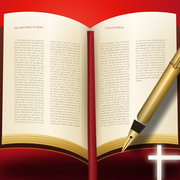
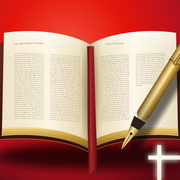
Publish 1.2.25 (2026-10-12 12:21)

diff --git a/index.html b/index.html
@@ -12,15 +12,15 @@
 <meta property="og:title" content="Never Get Bored — Nii Okai's Journal Through Scripture">
 <meta property="og:description" content="A verse-by-verse journal through Scripture by Nii Okai. Over 4,000 personal notes across all 66 books, with the King James text, reading plans and audio.">
 <meta property="og:url" content="https://bible.getwordwisdom.com/">
-<meta property="og:image" content="https://bible.getwordwisdom.com/icon-1024.png?v=20">
+<meta property="og:image" content="https://bible.getwordwisdom.com/icon-1024.png?v=21">
 <meta name="twitter:card" content="summary_large_image">
 <meta name="twitter:title" content="Never Get Bored — Nii Okai's Journal Through Scripture">
 <meta name="twitter:description" content="A verse-by-verse journal through Scripture by Nii Okai. Over 4,000 personal notes across all 66 books.">
-<meta name="twitter:image" content="https://bible.getwordwisdom.com/icon-1024.png?v=20">
+<meta name="twitter:image" content="https://bible.getwordwisdom.com/icon-1024.png?v=21">
 <meta name="theme-color" content="#000000">
-<link rel="apple-touch-icon" href="apple-touch-icon.png?v=20">
-<link rel="icon" type="image/png" sizes="32x32" href="favicon-32.png?v=20">
-<link rel="icon" type="image/png" sizes="192x192" href="icon-192.png?v=20">
+<link rel="apple-touch-icon" href="apple-touch-icon.png?v=21">
+<link rel="icon" type="image/png" sizes="32x32" href="favicon-32.png?v=21">
+<link rel="icon" type="image/png" sizes="192x192" href="icon-192.png?v=21">
 <meta name="apple-mobile-web-app-capable" content="yes">
 <meta name="apple-mobile-web-app-status-bar-style" content="default">
 <meta name="apple-mobile-web-app-title" content="Bible Journal N.O">
@@ -341,7 +341,7 @@ html.hide-notes .cmprow.revealed + .notewrap .note{display:block}
 .copypop-right{left:auto;right:0}
 .inline-ed{width:100%;min-height:70px;font-family:var(--sans);font-size:15px;line-height:1.55;color:var(--ink);
   background:var(--panel);border:2px solid var(--accent);border-radius:10px;padding:10px 12px;resize:vertical;outline:none}
-.inline-bar{display:flex;align-items:center;gap:8px;margin-top:8px}
+.inline-bar{display:flex;flex-wrap:wrap;align-items:center;gap:8px;margin-top:8px}
 .inline-bar .btn{padding:5px 14px;font-size:13px}
 .inline-hint{font-family:var(--sans);font-size:11px;color:var(--soft)}
 /* reference commentary (Matthew Henry) — visually distinct from Nii's journal */
@@ -982,7 +982,7 @@ body[data-view]:not([data-view="read"]):not([data-view="search"]) .rc{display:no
 <body>
 <!-- Opening screen: the red logo on black while the app gets ready (11 Oct 2026) -->
 <div id="boot" aria-hidden="true" style="position:fixed;inset:0;z-index:99999;background:#000000;display:flex;flex-direction:column;align-items:center;justify-content:center;gap:22px;transition:opacity .35s ease">
-  <img src="icon-512.png?v=20" alt="" width="220" height="220" style="width:min(46vw,240px);height:auto;border-radius:22%;box-shadow:0 0 70px rgba(225,6,0,.38)">
+  <img src="icon-512.png?v=21" alt="" width="220" height="220" style="width:min(46vw,240px);height:auto;border-radius:22%;box-shadow:0 0 70px rgba(225,6,0,.38)">
   <div style="font-family:Georgia,'Times New Roman',serif;color:#fff;text-align:center;line-height:1.35">
     <div style="font-size:clamp(20px,5vw,28px);letter-spacing:.3px">Nii Okai&#8217;s Bible Journal</div>
     <div style="font-size:clamp(12px,3.2vw,14px);opacity:.85;letter-spacing:2px;text-transform:uppercase;margin-top:6px">Never Get Bored</div>
@@ -1105,7 +1105,7 @@ body[data-view]:not([data-view="read"]):not([data-view="search"]) .rc{display:no
       <div class="vtext" id="edVerse"></div>
     </div>
     <div class="mb">
-      <textarea id="edText" placeholder="Share your thoughts on this verse…" spellcheck="true" autocapitalize="sentences" autocorrect="on" oninput="noteAutocorrect(event)"></textarea>
+      <textarea id="edText" placeholder="Share your thoughts on this verse…" spellcheck="true" autocapitalize="sentences" autocorrect="on" oninput="_edInput(event)"></textarea>
       <div class="ed-colours" id="edColours" title="Colour this note — it also highlights the verse. Stays on this device only.">
         <span class="lbl">Colour</span>
         <button class="sw sw-none" data-c="" onclick="edSetColour('')" title="No colour">✕</button>
@@ -1119,8 +1119,9 @@ body[data-view]:not([data-view="read"]):not([data-view="search"]) .rc{display:no
       <div class="ed-spell" id="edSpell" style="display:none"></div>
     </div>
     <div class="mf">
-      <button class="btn danger" id="edDelete" onclick="deleteCurrent()" style="margin-right:auto;display:none">Delete</button>
-      <button class="btn" onclick="closeEditor()">Cancel</button>
+      <button class="btn danger" id="edDelete" onclick="deleteCurrent()" style="display:none">Delete</button>
+      <span id="edStatus" class="ed-hint" style="margin-right:auto;padding-left:6px;white-space:nowrap">Saves as you type</span>
+      <button class="btn" onclick="cancelEditor()">Cancel</button>
       <button class="btn primary" onclick="saveEditor()">Save</button>
     </div>
   </div>
@@ -1146,7 +1147,7 @@ body[data-view]:not([data-view="read"]):not([data-view="search"]) .rc{display:no
 /* ---------- State ---------- */
 const LS_KEY='henry_bible_commentary_v1';
 const LS_PREFS='henry_bible_prefs_v1';
-const BUILD={v:'1.2.24', date:'12 Oct 2026'};
+const BUILD={v:'1.2.25', date:'12 Oct 2026'};
 var _themeMode='auto';   // 'auto' follows the device · 'light' · 'dark'
 const BLOG_URL='https://www.getwordwisdom.com/';
 const OWNER_KEY='niiokai';
@@ -2865,7 +2866,9 @@ function renderRead(){
   const r=document.getElementById('reader');
   /* same chapter drawn again (a note saved, a sync, a mark kept) — keep the reader exactly where they were (11 Oct 2026) */
   const _rk=name+'|'+ch, _anc=(window._rrKey===_rk)?_rrAnchor(r):null; window._rrKey=_rk;
+  const _il=_ilCapture();
   r.innerHTML=html; r.scrollTop=0; if(_anc){ _rrRestore(r,_anc); requestAnimationFrame(function(){ _rrRestore(r,_anc); }); }
+  _ilRestore(_il);
   { const o=ONLINE_VERSIONS[state.version]; if(o&&!olFallback){ const r0=document.getElementById('reader'); const pg=r0.querySelector('.page'); if(pg) pg.insertAdjacentHTML('beforeend',`<div class="copyline">${escHTML(o.c)}</div>`); } }
   const foot=document.getElementById('readfoot'); foot.innerHTML=`<div class="audnote" id="audnote" style="display:none"></div><div class="audbar" id="audbar" style="display:none"></div>`+nav; foot.style.display='';
   fillVoiceSel(); _rdSyncBtn();
@@ -3236,7 +3239,7 @@ function noteHTML(nt,name,ch,v,label){
   let nhl=''; try{ if(own&&v!=='0'){ const c=hlGet(name,ch,v); if(c) nhl=' nhl-'+c; } }catch(e){}
   /* the fold arrow, in the Journal edition only — Legacy keeps its cards exactly as they were (3 Oct 2026) */
   const fold=(typeof state!=='undefined'&&state.journal==='modern');
-  return `<div class="note${nhl}" data-book="${esc(name)}" data-ch="${ch}" data-v="${v}">
+  return `<div class="note${nhl}" data-book="${esc(name)}" data-ch="${ch}" data-v="${v}" data-id="${nt.id}">
     <div class="meta${fold?' nfold':''}"${fold?' onclick="_noteCollapse(this)" title="Tap to fold this note away"':''}><span class="who ${own?'mine':''}">${own?'MY NOTE':'NII OKAI'}</span><span class="vref">${ref}</span>
       ${label?`<span class="badge">${label}</span>`:''}
       ${nt.src==='import'?'<span class="badge">imported</span>':''}
@@ -3357,7 +3360,7 @@ function renderMine(){
         <span class="jsorthint">${JHINTS[sort]}</span></div></div>
     ${total?books:'<div class="empty"><div class="big">✍</div>No commentary yet. Open any verse and add your thoughts.</div>'}
   </div>`;
-  document.getElementById('reader').innerHTML=html;
+  const _il=_ilCapture(); document.getElementById('reader').innerHTML=html; _ilRestore(_il);
   document.getElementById('reader').scrollTop=0;
   buildBookList();
 }
@@ -3485,7 +3488,8 @@ function nextChapter(){ const nch=window.BOOKS[state.book].chapters.length;
 /* ---------- Editor ---------- */
 function openEditor(name,ch,v){
   closeSelMenu&&closeSelMenu(); closeVerseMenu&&closeVerseMenu();
-  editing={book:name,ch:ch,v:String(v),id:null};
+  editing={book:name,ch:ch,v:String(v),id:null,orig:''};
+  _edStatus('Saves as you type');
   document.getElementById('edTitle').textContent=(v===0?'Add chapter note':'Add commentary');
   showVerseInEditor(name,ch,v);
   document.getElementById('edText').value='';
@@ -3497,7 +3501,8 @@ function openEditor(name,ch,v){
 }
 function editNote(name,ch,v,id,liveText){
   const arr=DATA[name][String(ch)][String(v)]; const nt=arr.find(n=>n.id===id);
-  editing={book:name,ch:ch,v:String(v),id:id};
+  editing={book:name,ch:ch,v:String(v),id:id,orig:nt.text};
+  _edStatus('Saves as you type');
   document.getElementById('edTitle').textContent='Edit commentary';
   showVerseInEditor(name,ch,v==='0'?0:+v);
   document.getElementById('edText').value=(liveText!=null?liveText:nt.text);
@@ -3568,7 +3573,23 @@ function deleteCurrent(){
   toast('Deleted');
 }
 function closeEditor(saved){ if(!saved&&typeof _edRevertPreview==='function') _edRevertPreview();
+  clearTimeout(_edTimer); _edTimer=null;
   document.getElementById('overlay').classList.remove('show'); editing=null; }
+/* Cancel in the dialog: a brand-new note that saved itself is removed; an edited note gets its old words back.
+   It asks first when something would be lost. */
+function cancelEditor(){
+  if(editing&&!editing.ref){ _edFlush();
+    const {book,ch,v,id,orig,auto}=editing; let arr=null, nt=null;
+    try{ arr=DATA[book][String(ch)][String(v)]; nt=arr.find(x=>x.id===id); }catch(e){}
+    const changed=nt&&(auto||nt.text!==orig);
+    if(changed){ if(!confirm(auto?'Throw this note away?':'Put the note back the way it was? Your changes will be lost.')) return;
+      if(auto){ const i=arr.indexOf(nt); if(i>=0) arr.splice(i,1); try{ _nsTombAdd(id,book); }catch(e){}
+        if(!arr.length){ delete DATA[book][String(ch)][String(v)]; if(!Object.keys(DATA[book][String(ch)]).length) delete DATA[book][String(ch)]; } }
+      else{ nt.text=orig; nt.edited=new Date().toISOString(); }
+      persist(); markDirty(); closeEditor(false);
+      if(state.view==='mine') renderMine(); else if(state.view==='read') renderRead();
+      return; } }
+  closeEditor(false); }
 
 /* ---------- Inline note editing: single click edits in place, double click opens full editor ---------- */
 let _noteClickTimer=null;
@@ -3588,9 +3609,9 @@ function inlineEditNote(el,name,ch,v,id){
   if(el.querySelector('textarea')) return;
   const arr=(DATA[name]&&DATA[name][String(ch)]&&DATA[name][String(ch)][String(v)])||[];
   const nt=arr.find(n=>n.id===id); const cur=nt?nt.text:el.textContent;
-  el.innerHTML=`<textarea class="inline-ed" spellcheck="true" autocapitalize="sentences" oninput="noteAutocorrect(event)"></textarea>
-    <div class="inline-bar"><button class="btn primary" onclick="event.stopPropagation();saveInline(this,'${esc(name)}',${ch},'${v}','${id}')">Save</button>
-      <button class="btn" onclick="event.stopPropagation();cancelInline()">Cancel</button>
+  el.innerHTML=`<textarea class="inline-ed" spellcheck="true" autocapitalize="sentences" oninput="noteAutocorrect(event);_ilAuto(event)" onblur="_ilFlush(this)"></textarea>
+    <div class="inline-bar"><button class="btn primary" onclick="event.stopPropagation();saveInline(this,'${esc(name)}',${ch},'${v}','${id}')">Done</button>
+      <button class="btn" onclick="event.stopPropagation();cancelInline(this)">Cancel</button>
       ${v!=='0'?`<span class="ed-colours inline-colours" onclick="event.stopPropagation()">
         <span class="lbl">Colour</span>
         <button class="sw sw-none" data-c="" onclick="ilColour(event,'${esc(name)}',${ch},'${v}','')">✕</button>
@@ -3599,10 +3620,11 @@ function inlineEditNote(el,name,ch,v,id){
         <button class="sw sw-b" data-c="b" onclick="ilColour(event,'${esc(name)}',${ch},'${v}','b')"></button>
         <button class="sw sw-p" data-c="p" onclick="ilColour(event,'${esc(name)}',${ch},'${v}','p')"></button>
       </span>`:''}
-      <span class="inline-hint">Enter saves · Esc cancels</span></div>`;
+      <span class="inline-hint">Saves as you type · Enter closes</span></div>`;
   const t=el.querySelector('textarea'); t.value=cur; t.onclick=e=>e.stopPropagation();
+  t.dataset.nid=id; t.dataset.book=name; t.dataset.ch=String(ch); t.dataset.v=String(v); t.dataset.orig=cur;
   t.onkeydown=e=>{ if(e.key==='Enter'&&!e.shiftKey){ e.preventDefault(); t.nextElementSibling.querySelector('.primary').click(); }
-    else if(e.key==='Escape'){ e.preventDefault(); cancelInline(); } };
+    else if(e.key==='Escape'){ e.preventDefault(); t.nextElementSibling.querySelector('.primary').click(); } };
   try{ const cc=(v!=='0')?hlGet(name,ch,v):''; el.querySelectorAll('.inline-colours .sw').forEach(b=>
     b.classList.toggle('on',(b.dataset.c||'')===(cc||''))); }catch(e){}
   t.focus(); t.style.height='auto'; t.style.height=Math.max(70,t.scrollHeight)+'px';
@@ -3621,15 +3643,69 @@ function ilColour(ev,name,ch,v,c){ ev.stopPropagation();
   ev.currentTarget.parentElement.querySelectorAll('.sw').forEach(b=>
     b.classList.toggle('on',(b.dataset.c||'')===(c||'')));
 }
-function cancelInline(){ if(state.view==='mine') renderMine(); else renderRead(); }
-function saveInline(btn,name,ch,v,id){ const ta=btn.closest('.body').querySelector('textarea'); const text=sacredCase(ta.value.trim());
-  if(!text){ toast('Nothing to save'); return; }
-  const arr=DATA[name][String(ch)][String(v)]; const nt=arr.find(n=>n.id===id);
-  if(nt){ nt.text=text; nt.date=nt.date||new Date().toISOString(); nt.edited=new Date().toISOString(); }
-  persist(); markDirty(); const jv=(v==='0')?1:parseInt(v,10);
+/* Cancel puts the words back the way they were when you opened the note (asks first if you changed anything) */
+function cancelInline(btn){
+  try{ const ta=btn&&btn.closest('.body').querySelector('textarea');
+    if(ta&&ta.value.trim()!==String(ta.dataset.orig||'').trim()){
+      if(!confirm('Put the note back the way it was? Your changes here will be lost.')) return;
+      ta.value=ta.dataset.orig||''; _ilFlush(ta,true); } else if(ta) _ilFlush(ta);
+    if(ta) ta.classList.remove('inline-ed'); }catch(e){}                      // closing on purpose — do not re-open it after the redraw
+  if(state.view==='mine') renderMine(); else renderRead(); }
+function saveInline(btn,name,ch,v,id){ const ta=btn.closest('.body').querySelector('textarea');
+  if(!ta.value.trim()){ toast('Nothing to save — the note keeps its old words'); }
+  else _ilFlush(ta);
+  ta.classList.remove('inline-ed');                                            // closing on purpose — do not re-open it after the redraw
+  const jv=(v==='0')?1:parseInt(v,10);
   if(state.view==='mine') renderMine(); else { renderRead(); setTimeout(()=>_flashVerse(jv),50); }
   toast('Saved');
 }
+
+/* ---------- Autosave (12 Oct 2026): notes save themselves as you type, so nothing is lost if the page redraws ---------- */
+let _ilTimer=null;
+function _ilAuto(e){ const ta=e.target; _ilHint(ta,'Saving…'); clearTimeout(_ilTimer); _ilTimer=setTimeout(()=>_ilFlush(ta),700); }
+function _ilHint(ta,msg){ try{ const h=ta.parentElement.querySelector('.inline-hint'); if(h) h.textContent=msg+' · Enter closes'; }catch(e){} }
+/* write the in-place editor's words into the note now (quietly — no redraw, no toast) */
+function _ilFlush(ta,force){ try{ if(!ta||!ta.isConnected||!ta.classList.contains('inline-ed')) return false;
+  clearTimeout(_ilTimer); _ilTimer=null;
+  const d=ta.dataset; const text=sacredCase(ta.value.trim()); if(!text) return false;
+  const arr=(((DATA[d.book]||{})[String(d.ch)]||{})[String(d.v)])||[]; const nt=arr.find(x=>x.id===d.nid); if(!nt) return false;
+  if(nt.text===text&&!force) return true;
+  nt.text=text; nt.date=nt.date||new Date().toISOString(); nt.edited=new Date().toISOString();
+  persist(); markDirty(); _ilHint(ta,'Saved ✓'); return true; }catch(e){ return false; } }
+/* before a redraw: save and remember an open in-place editor; after it: open it again where it was, words and cursor intact */
+function _ilCapture(){ try{ const ta=document.querySelector('#reader textarea.inline-ed'); if(!ta) return null; _ilFlush(ta);
+  return {nid:ta.dataset.nid,book:ta.dataset.book,ch:ta.dataset.ch,v:ta.dataset.v,text:ta.value,orig:ta.dataset.orig,
+    s:ta.selectionStart,e:ta.selectionEnd,top:ta.scrollTop,focus:document.activeElement===ta}; }catch(e){ return null; } }
+function _ilRestore(c){ if(!c) return; try{
+  const note=document.querySelector('#reader .note[data-id="'+c.nid+'"]'); if(!note) return;
+  if(note.classList.contains('ncollapsed')){ const b=note.querySelector('.ncol'); if(b) _noteCollapse(b); }
+  const body=note.querySelector('.body'); if(!body) return;
+  inlineEditNote(body,c.book,parseInt(c.ch,10),c.v,c.nid);
+  const ta=body.querySelector('textarea'); if(!ta) return;
+  ta.value=c.text; ta.dataset.orig=c.orig||''; ta.style.height='auto'; ta.style.height=Math.max(70,ta.scrollHeight)+'px';
+  try{ ta.setSelectionRange(c.s,c.e); }catch(e){} ta.scrollTop=c.top||0;
+  if(c.focus) ta.focus({preventScroll:true}); else ta.blur(); }catch(e){} }
+/* full editor (the dialog): saves as you type too — a new note is created on the first words, then updated */
+let _edTimer=null;
+function _edInput(e){ noteAutocorrect(e); if(!editing||editing.ref) return; _edStatus('Saving…'); clearTimeout(_edTimer); _edTimer=setTimeout(_edFlush,900); }
+function _edStatus(m){ try{ document.getElementById('edStatus').textContent=m||''; }catch(e){} }
+function _edFlush(){ try{ clearTimeout(_edTimer); _edTimer=null; if(!editing||editing.ref) return false;
+  const text=sacredCase(document.getElementById('edText').value.trim()); if(!text) return false;
+  const {book,ch,v}=editing;
+  DATA[book]=DATA[book]||{}; DATA[book][String(ch)]=DATA[book][String(ch)]||{};
+  DATA[book][String(ch)][String(v)]=DATA[book][String(ch)][String(v)]||[];
+  const arr=DATA[book][String(ch)][String(v)];
+  let nt=editing.id?arr.find(x=>x.id===editing.id):null;
+  if(nt){ if(nt.text===text) return true; nt.text=text; nt.date=nt.date||new Date().toISOString(); nt.edited=new Date().toISOString(); }
+  else{ nt={id:Math.random().toString(36).slice(2,12),text:text,date:new Date().toISOString(),src:'user'}; arr.push(nt);
+    editing.id=nt.id; editing.auto=true; try{ document.getElementById('edDelete').style.display=''; }catch(e){} }
+  editing.changed=true; persist(); markDirty();
+  _edStatus('Saved ✓'); return true; }catch(e){ return false; } }
+/* if the page is being hidden or closed, save whatever is still being typed */
+function _autoFlushAll(){ try{ const ta=document.querySelector('textarea.inline-ed'); if(ta) _ilFlush(ta); }catch(e){}
+  try{ if(editing&&!editing.ref) _edFlush(); }catch(e){} }
+window.addEventListener('pagehide',_autoFlushAll);
+document.addEventListener('visibilitychange',function(){ if(document.hidden) _autoFlushAll(); });
 
 /* ---------- Conservative autocorrect (never touches British spelling / proper nouns) ---------- */
 const AUTOCORRECT={teh:'the',hte:'the',adn:'and',nad:'and',thier:'their',recieve:'receive',

diff --git a/sw.js b/sw.js
@@ -1,6 +1,6 @@
 /* Never Get Bored — service worker.
    Bump CACHE whenever the app shell changes so installed copies refresh. */
-const CACHE = 'ngb-v117';
+const CACHE = 'ngb-v118';
 const PRECACHE = [
   './', './index.html', './manifest.webmanifest', './icon-192.png', './icon-512.png',
   './data/books.js', './data/versions.js', './data/KJV.js', './data/chronological.js', './data/headings.js', './data/audio_kjv.js',
